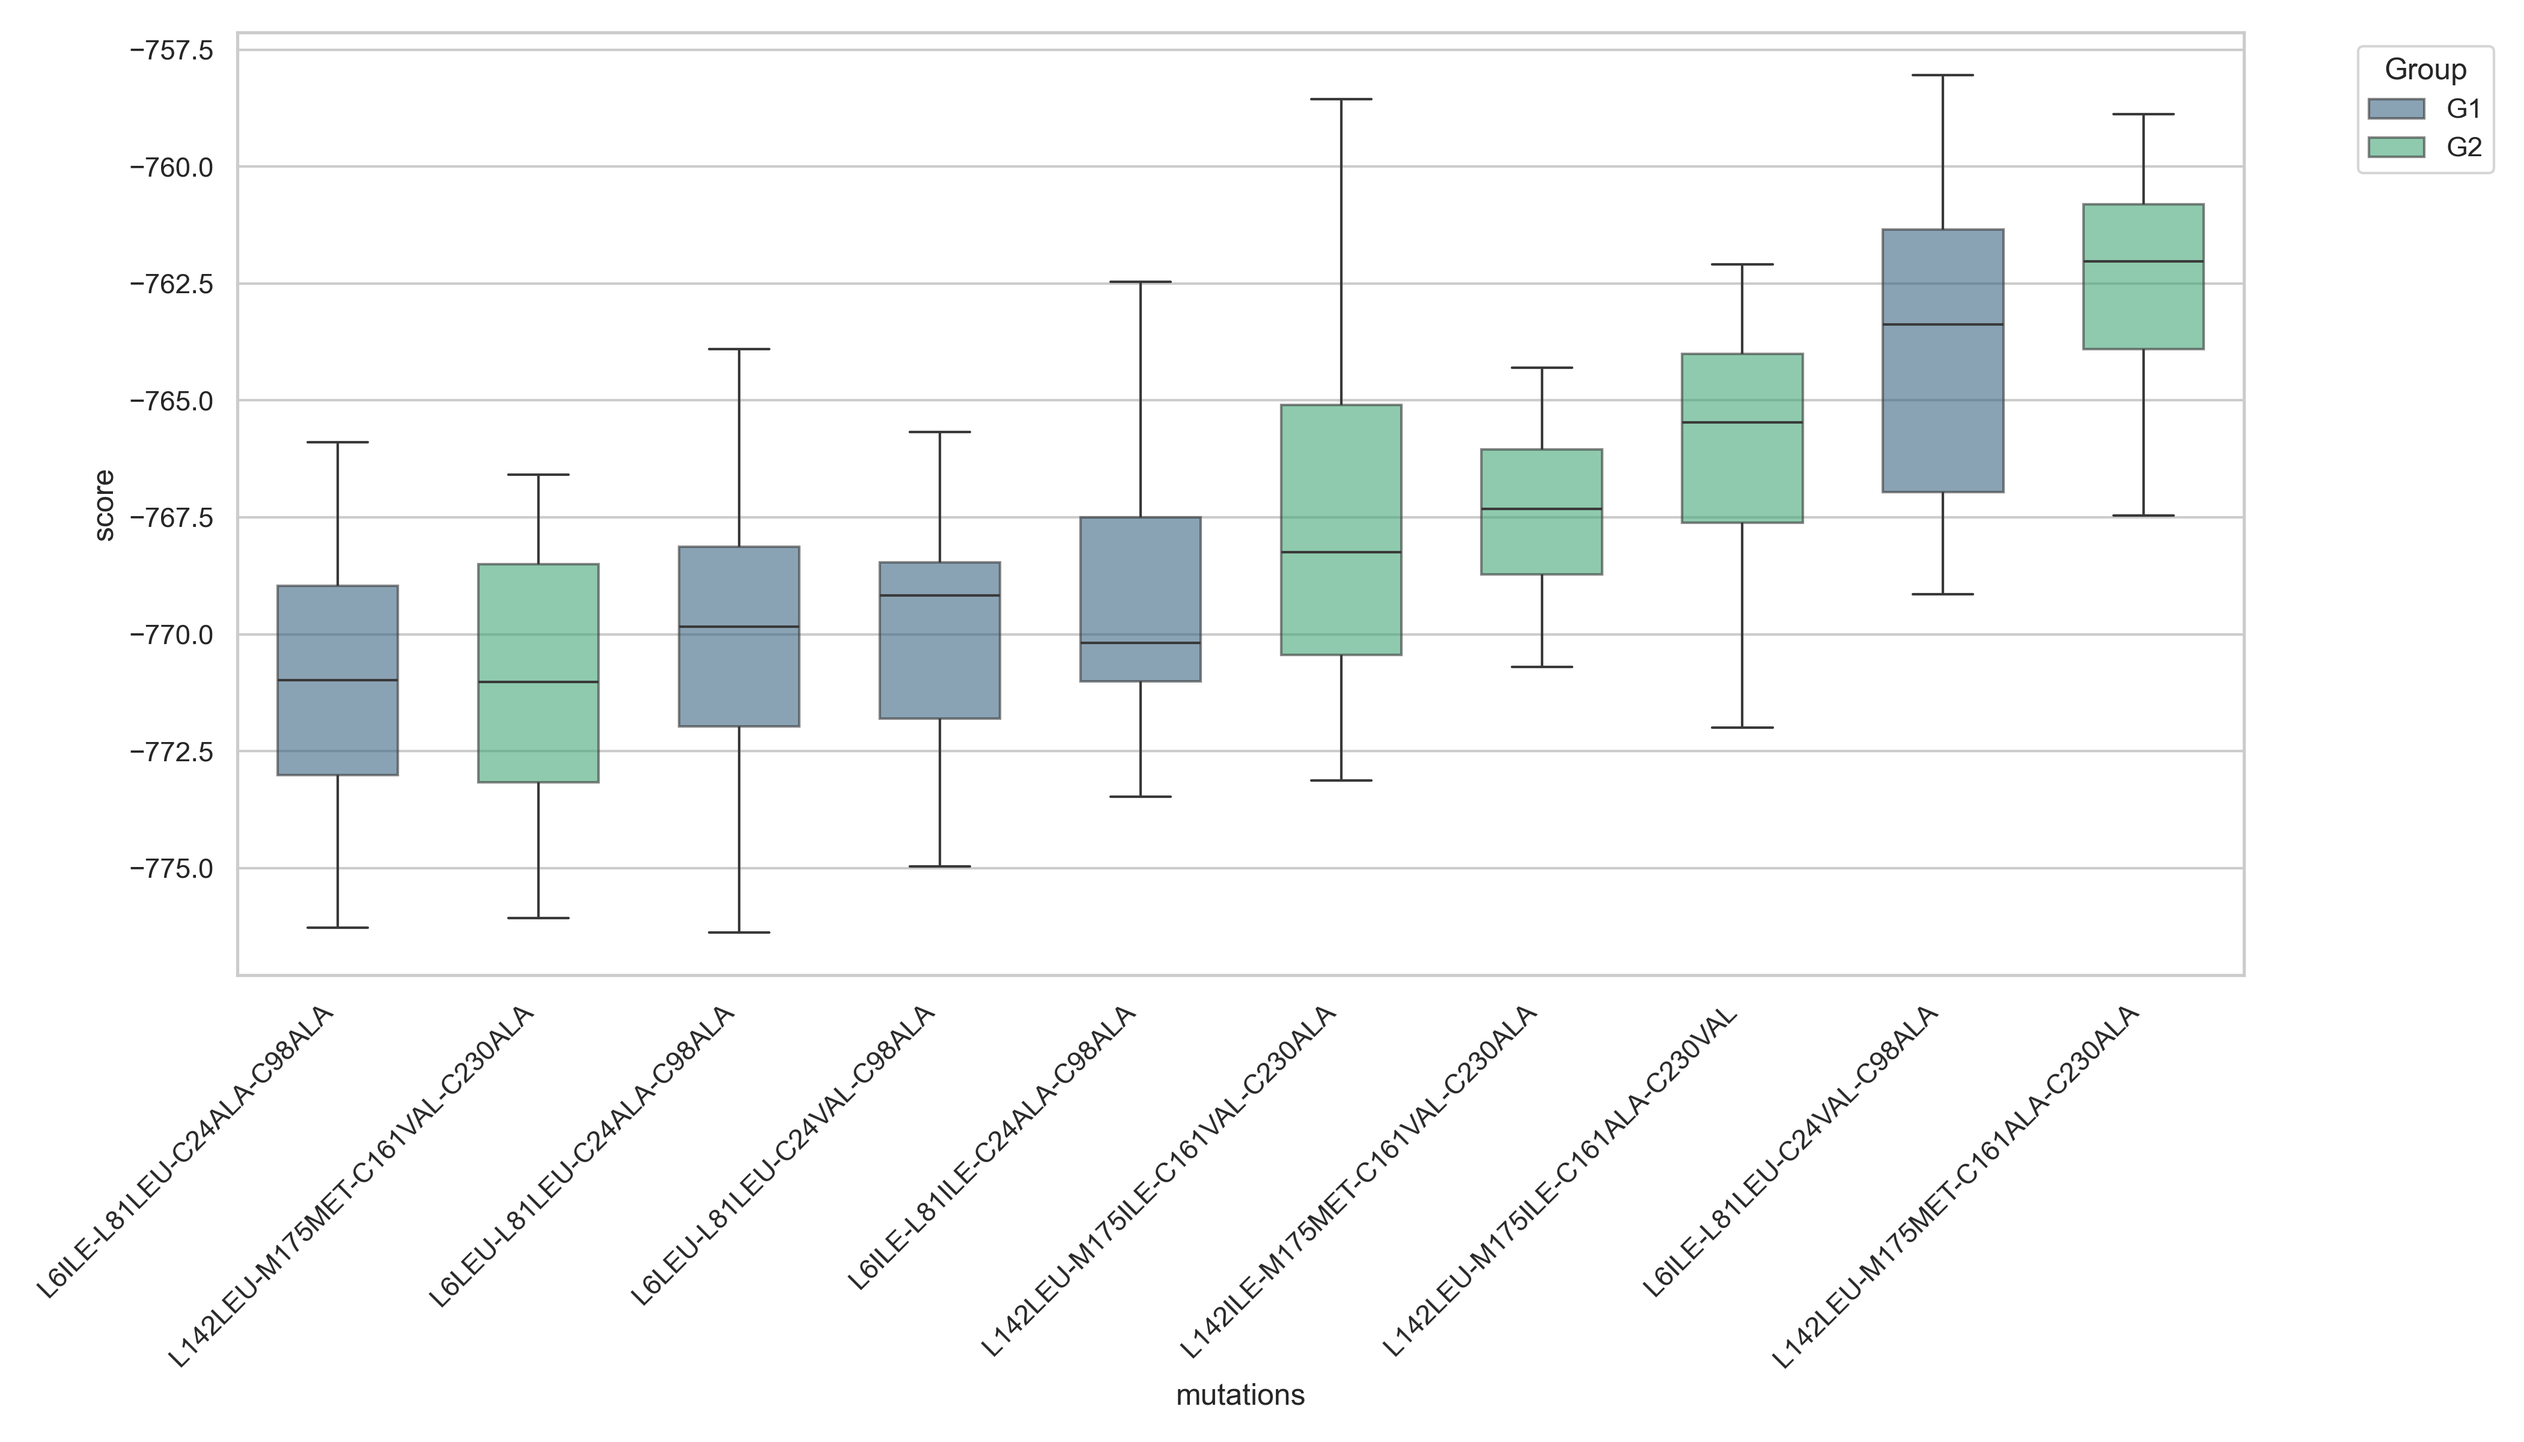
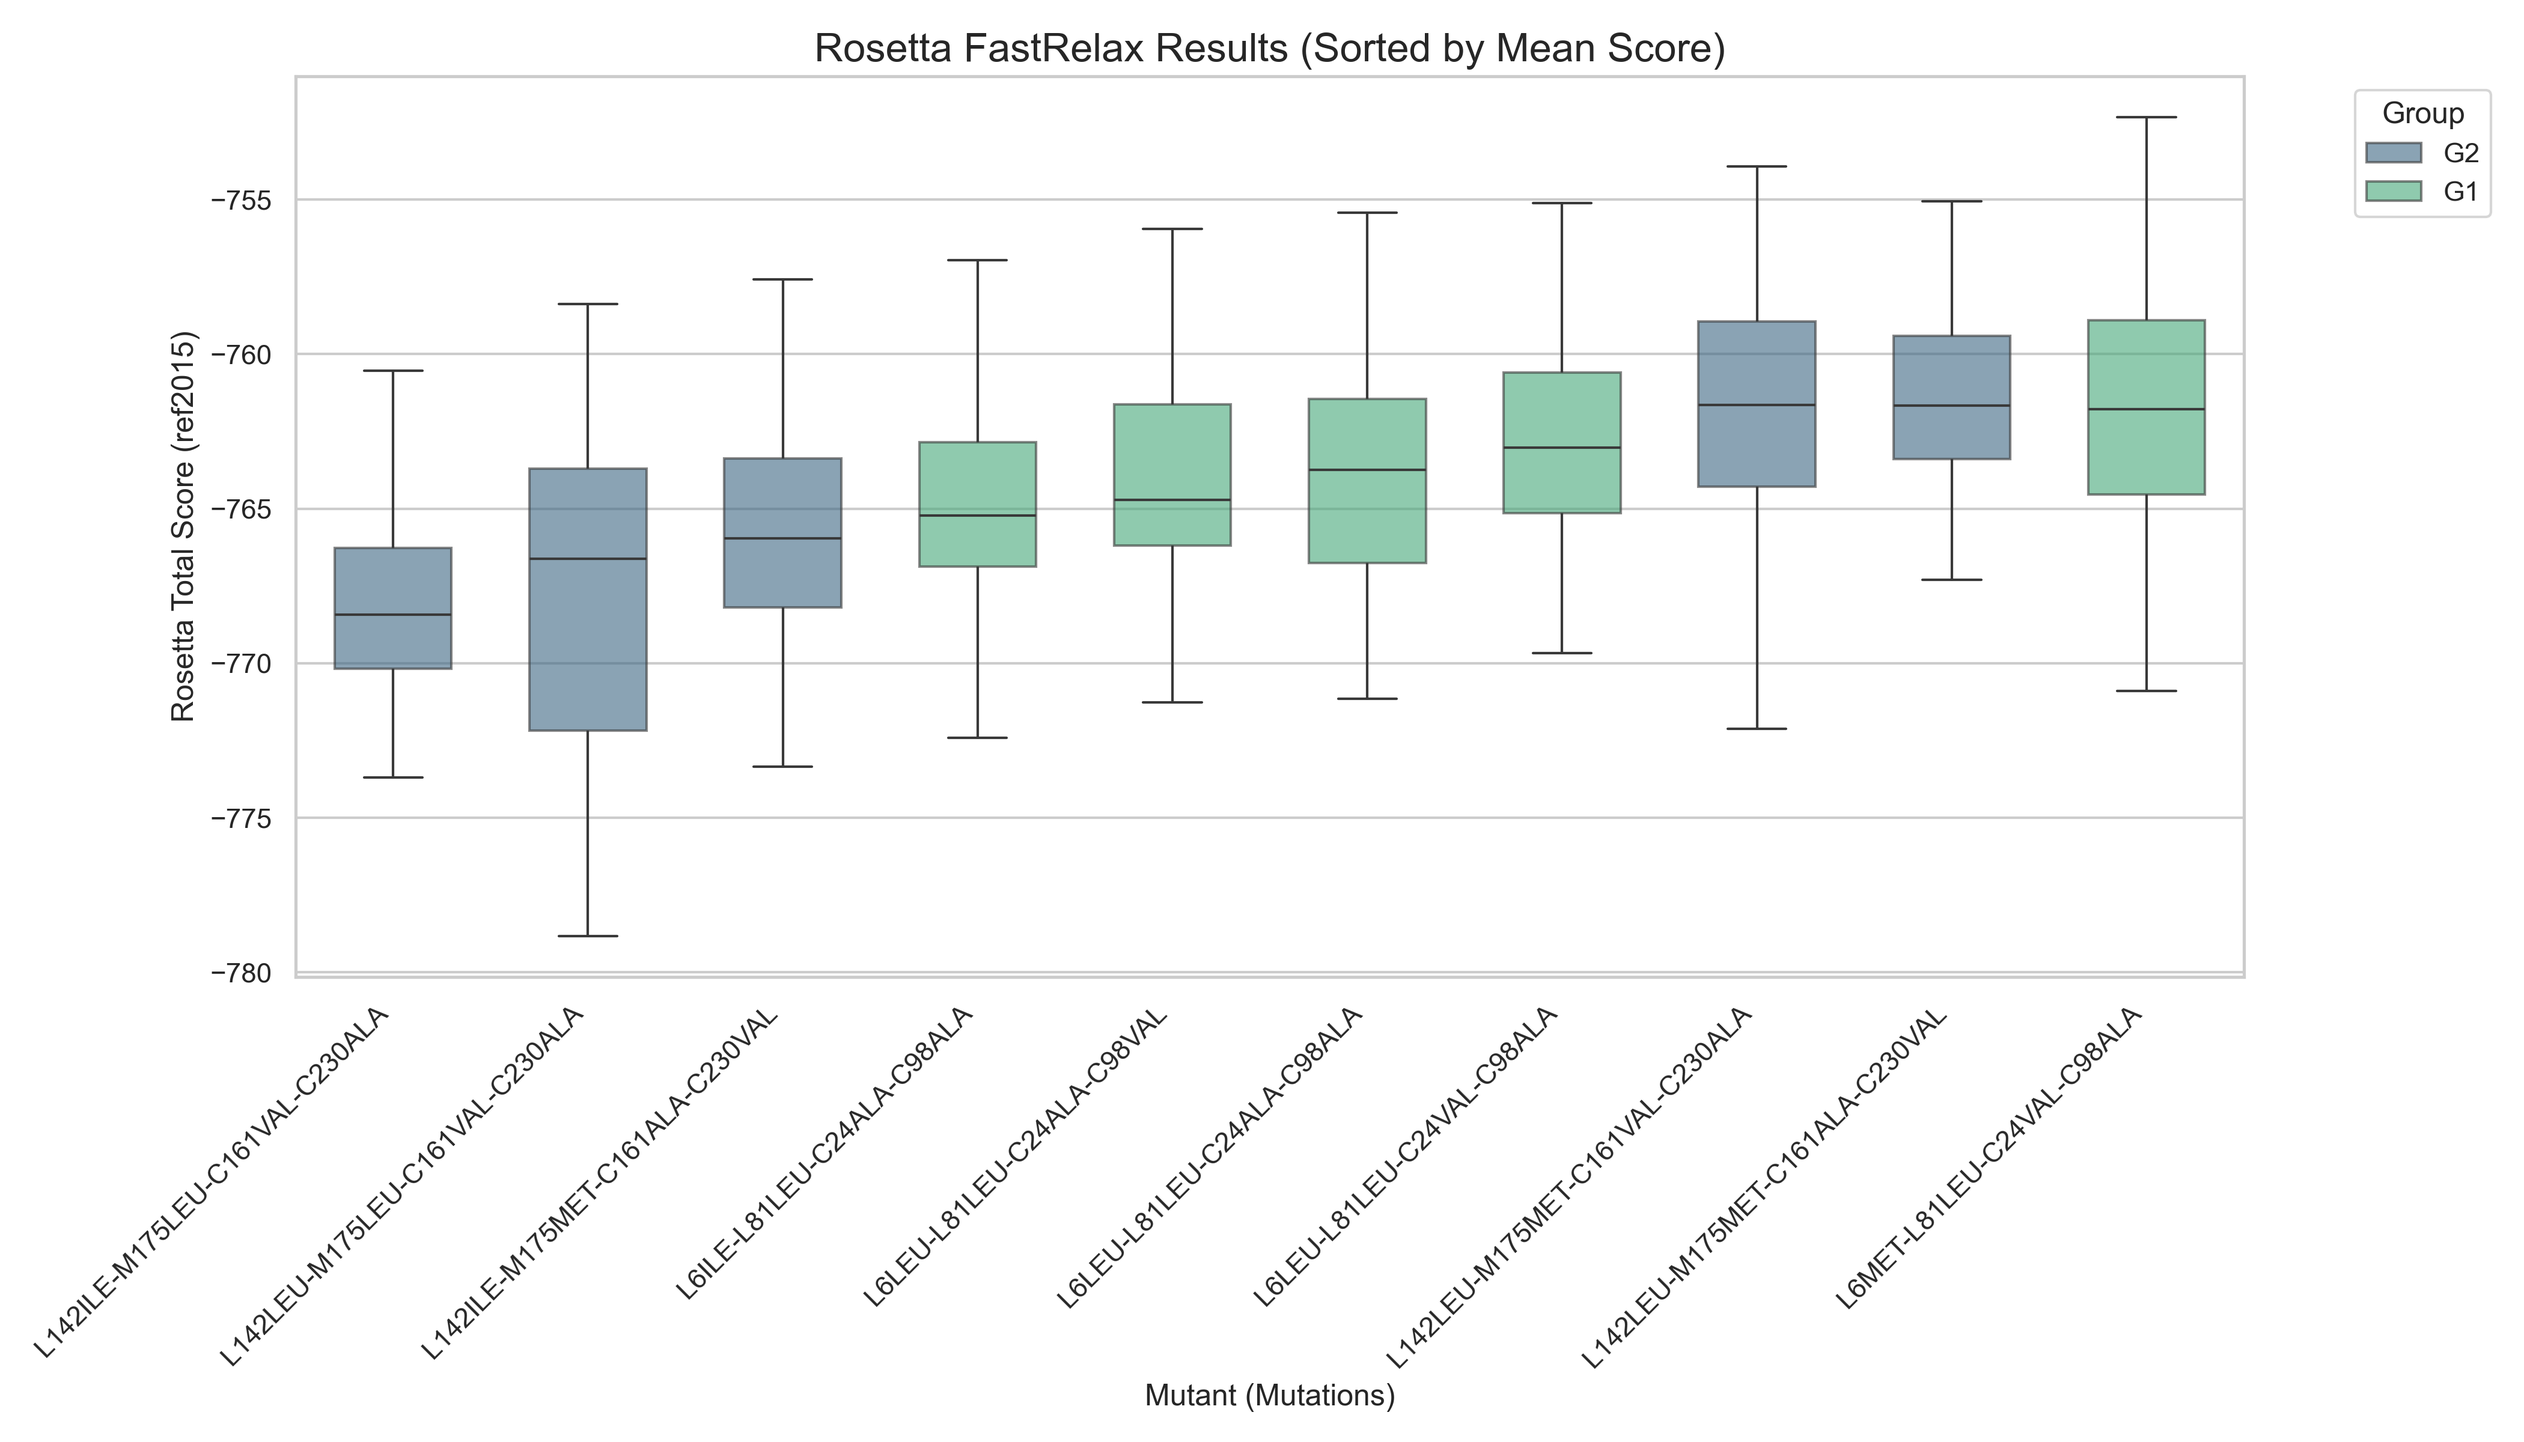
feat: Generate new mutant PDB structures, update fastrelax plotting script and result images, and remove old summary CSVs.

diff --git a/plot_fastrelax_results.py b/plot_fastrelax_results.py
@@ -20,69 +20,68 @@ def main():
     # Filter out FAILED rows
     df = df[df['avg_score'] != 'FAILED'].copy()
     
-    # Ensure scores are numeric
-    rep_cols = [f'rep{i}' for i in range(1, 21)]
+    # Dynamically identify all replicate columns (rep1, rep2, ..., repN)
+    rep_cols = [col for col in df.columns if col.startswith('rep')]
     for col in rep_cols + ['avg_score', 'std_score']:
         df[col] = pd.to_numeric(df[col], errors='coerce')
 
-    # Sort by avg_score (most negative first)
-    df = df.sort_values('avg_score', ascending=True)
+    # Get unique groups to generate separate figures
+    unique_groups = sorted(df['group'].unique())
+    print(f"Found groups: {unique_groups}")
 
-    # Melt the dataframe for plotting individual replicates
-    # This transforms the data into a 'long' format suitable for sns.stripplot
-    df_melted = df.melt(
-        id_vars=['mutations', 'group', 'avg_score'], 
-        value_vars=rep_cols, 
-        var_name='replicate', 
-        value_name='score'
-    )
+    for group in unique_groups:
+        print(f"Generating plot for group: {group}...")
+        
+        # Filter data for this group
+        group_df = df[df['group'] == group].copy()
+        
+        # Sort by avg_score (most negative first)
+        group_df = group_df.sort_values('avg_score', ascending=True)
 
-    # Plotting
-    plt.figure(figsize=(14, 8))
-    sns.set_theme(style="whitegrid")
-    
-    # 1. Plot the Box Plot (Showing distribution: median, quartiles, range)
-    # This naturally handles the 'distribution' without drawing bars from zero
-    sns.boxplot(
-        data=df_melted,
-        x='mutations',
-        y='score',
-        hue='group',
-        palette='viridis',
-        dodge=False,
-        width=0.6,
-        showfliers=False,  # Fliers are shown by the stripplot
-        boxprops=dict(alpha=0.6)
-    )
+        # Melt the dataframe for plotting individual replicates
+        group_df_melted = group_df.melt(
+            id_vars=['mutations', 'group', 'avg_score'], 
+            value_vars=rep_cols, 
+            var_name='replicate', 
+            value_name='score'
+        )
 
-    # 2. Overlay individual points (Stripplot)
-    # This shows every single one of the 20 replicates
-    # sns.stripplot(
-    #     data=df_melted,
-    #     x='mutations',
-    #     y='score',
-    #     hue='group',
-    #     dodge=False,
-    #     jitter=0.2,
-    #     size=4,
-    #     alpha=0.5,
-    #     palette='viridis',
-    #     legend=False  # Avoid duplicate legend
-    # )
+        # Plotting
+        plt.figure(figsize=(14, 8))
+        sns.set_theme(style="whitegrid")
+        
+        # Enforce the sorting order explicitly
+        sort_order = group_df['mutations'].tolist()
 
-    # plt.title('Rosetta FastRelax Results (Score Distributions)', fontsize=16)
-    # plt.xlabel('Mutant (Mutations)', fontsize=12)
-    # plt.ylabel('Rosetta Total Score (ref2015)', fontsize=12)
-    
-    # Rotate x-axis labels for better readability
-    plt.xticks(rotation=45, ha='right')
-    
-    # Legend handling
-    plt.legend(title='Group', bbox_to_anchor=(1.05, 1), loc='upper left')
-    
-    plt.tight_layout()
-    plt.savefig(OUTPUT_FILE, dpi=300)
-    print(f"Plot saved to {OUTPUT_FILE}")
+        # 1. Plot the Box Plot (Showing distribution: median, quartiles, range)
+        sns.boxplot(
+            data=group_df_melted,
+            x='mutations',
+            y='score',
+            order=sort_order,
+            palette='viridis',
+            width=0.6,
+            showfliers=False,
+            boxprops=dict(alpha=0.6)
+        )
+
+        # Determine output filename for this group
+        group_output = os.path.join(SCRIPT_DIR, f"fastrelax_results_{group}_plot.png")
+
+        plt.title(f'Rosetta FastRelax Results - Group {group} (Sorted by Mean Score)', fontsize=16)
+        plt.xlabel('Mutant (Mutations)', fontsize=12)
+        plt.ylabel('Rosetta Total Score (ref2015)', fontsize=12)
+        
+        # Rotate x-axis labels for better readability
+        plt.xticks(rotation=45, ha='right')
+        
+        plt.tight_layout()
+        plt.savefig(group_output, dpi=300)
+        print(f"Plot saved to {group_output}")
+        plt.show() # Display the plot interactively
+        plt.close() # Close figure to free memory
 
 if __name__ == "__main__":
     main()
+
+# %%
